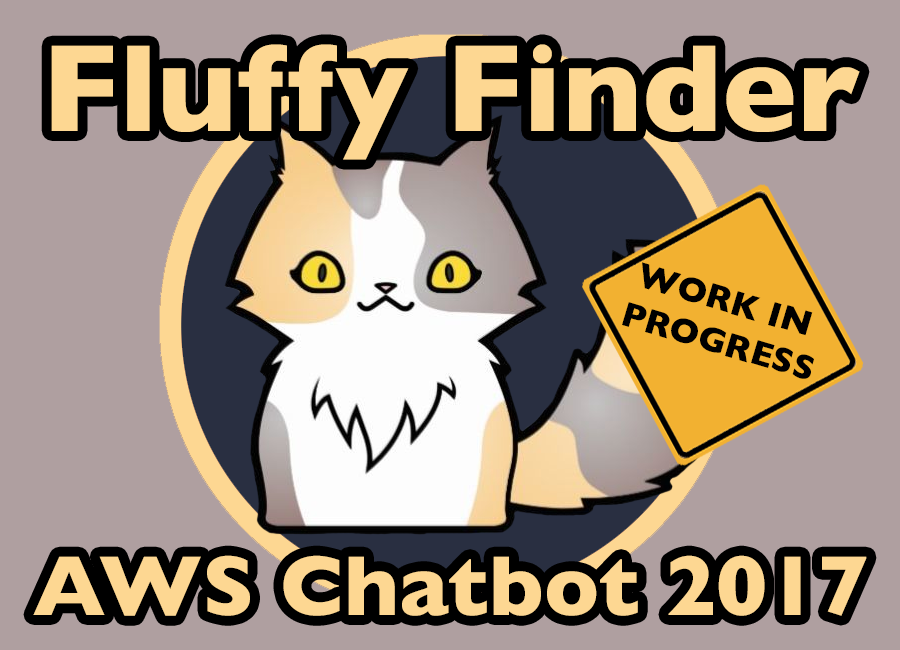
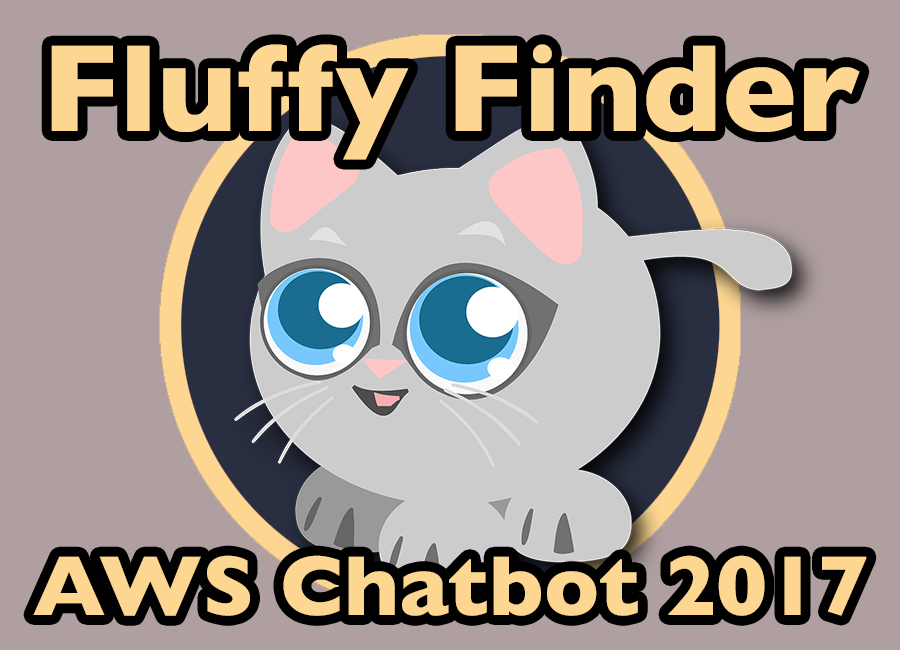
Updated images and post for Chatbot Challenge

diff --git a/templates/index.html b/templates/index.html
@@ -552,22 +552,24 @@
                             <hr class="star-primary">
                             <img src="{{ url_for('static', filename='site/img/projects/chatbot-fluffyfinder/screenshot.png') }}" class="img-responsive img-centered" alt="" style="max-width: 380px">
                             <h3>Description</h3>
-                            <p>Fluffly Finder aims to help people find animals that need love using Amazon LEX, Lambda and Slack chat integration. It is currently in development and will be submitted for the <a href="https://awschatbot2017.devpost.com/">AWS Chatbot Challenge</a>.</p>
+                            <p>Fluffly Finder aims to help people find animals that need love using Amazon LEX, Lambda and Slack chat integration. I developed it for the <a href="https://devpost.com/software/fluffy-finder">AWS Chatbot Challenge</a>.</p>
+                            <h4>Demo Video</h4>
+                            <iframe width="560" height="315" src="https://www.youtube.com/embed/N8_wVGT9JvI" frameborder="0" allowfullscreen></iframe>
                             <h3>Software and Development</h3>
                             <p>Amazon Lex - Conversational Interface & NLP</p>
                             <p>Slack Messenger API (Webhook -> Lex)</p>
                             <p>Petfinder API.</p>
                             <ul class="list-inline item-details">
                                 <li>Client:
-                                    <strong><a href="https://nathanglover.com/">Contact Me!</a>
+                                    <strong><a href="https://awschatbot2017.devpost.com">AWS</a>
                                     </strong>
                                 </li>
                                 <li>Date:
-                                    <strong>2017
+                                    <strong>July 2017
                                     </strong>
                                 </li>
                                 <li>Service:
-                                    <strong>Development
+                                    <strong>Serverless Development
                                     </strong>
                                 </li>
                             </ul>
